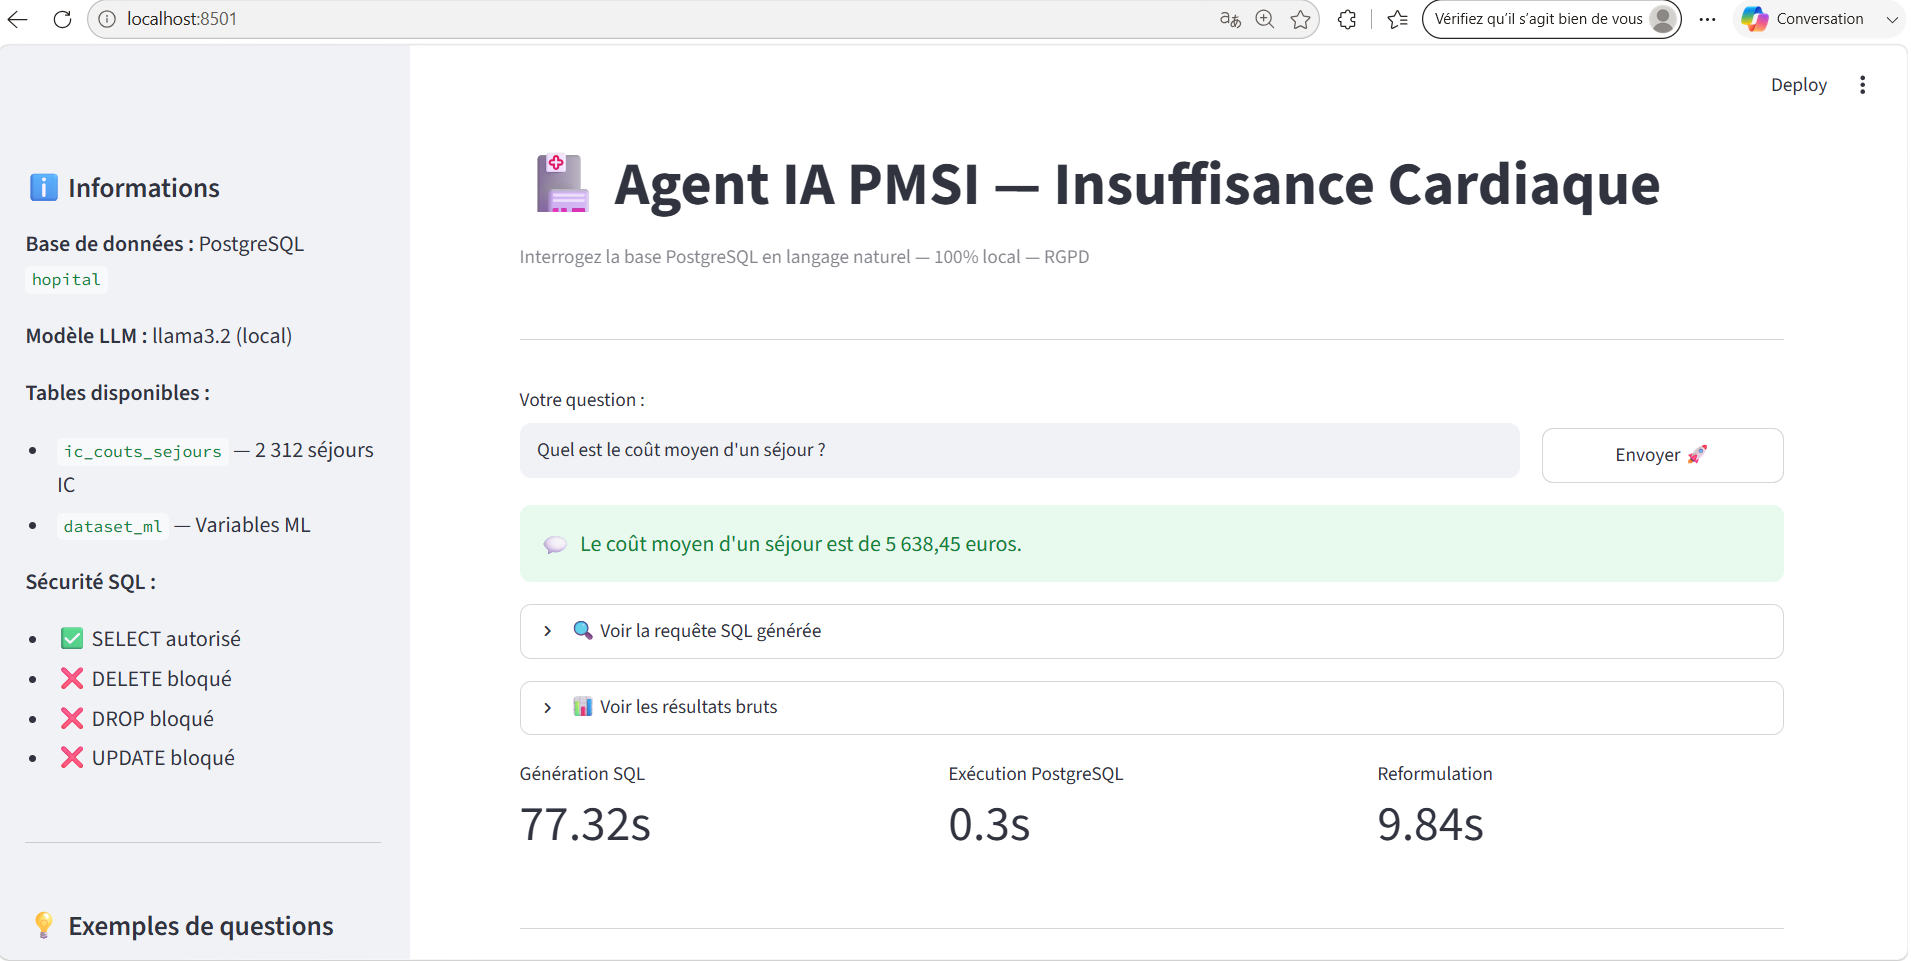
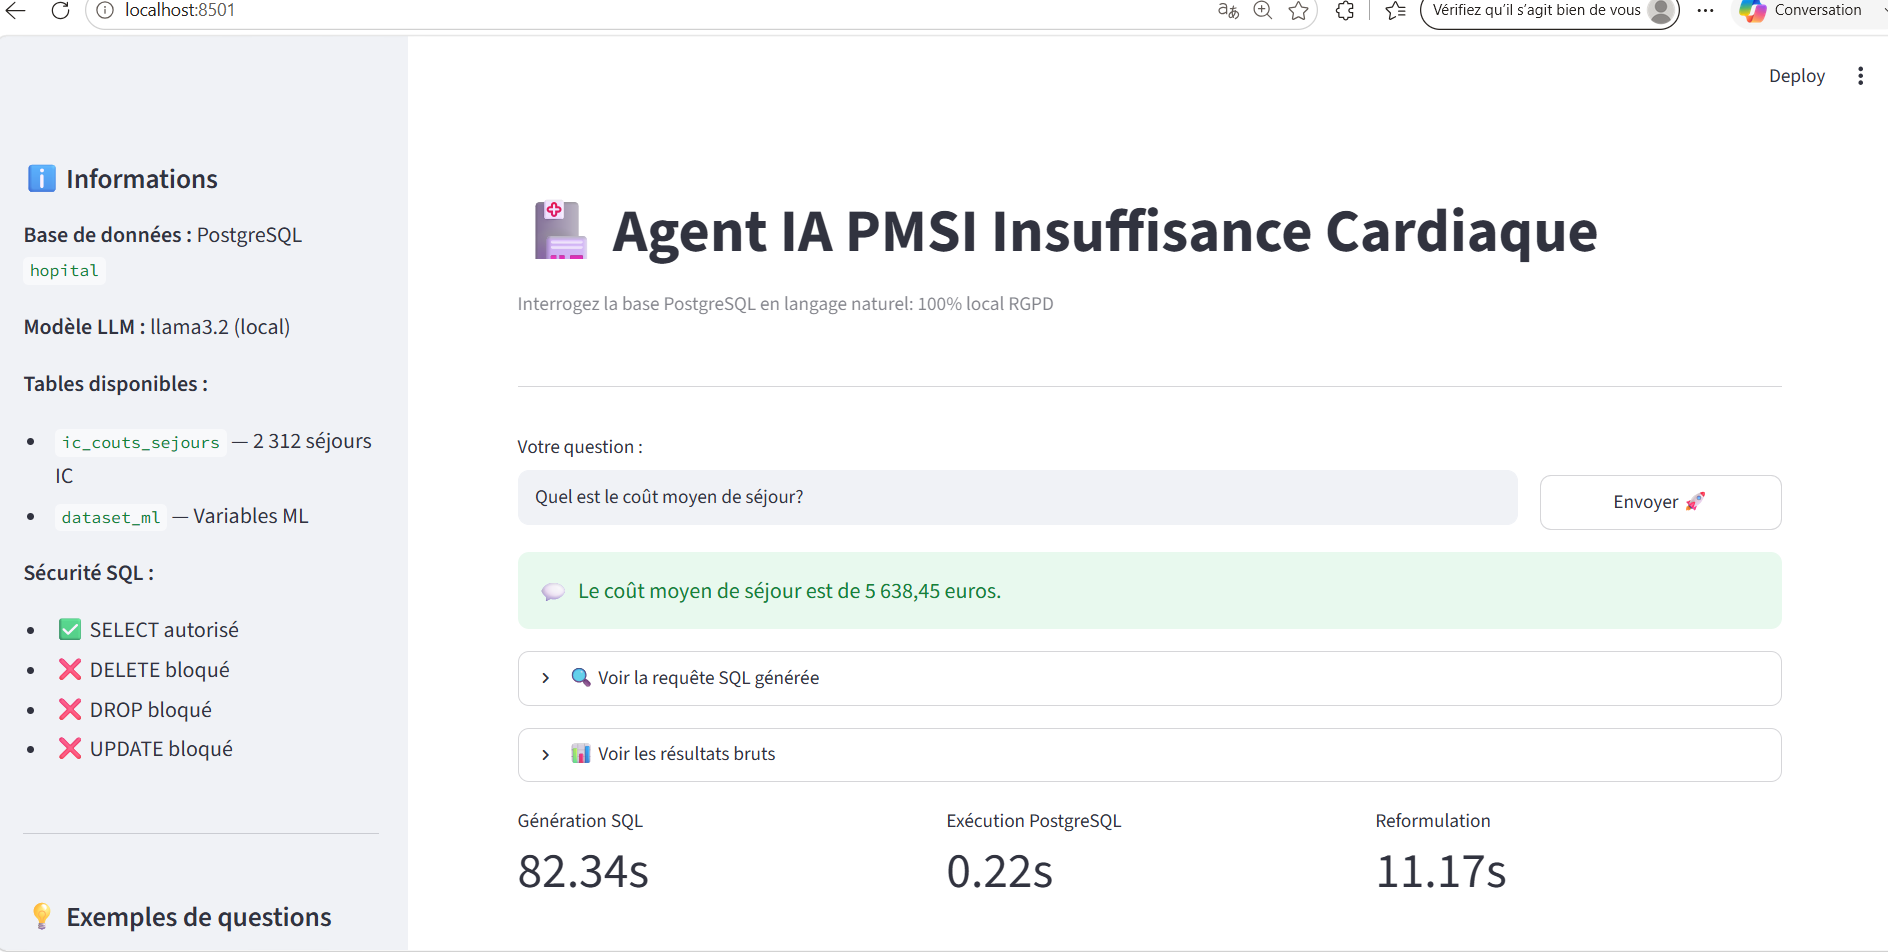
Mise à jour interface Streamlit + capture écran démo

diff --git a/agent_llm_pmsi.py b/agent_llm_pmsi.py
@@ -109,6 +109,26 @@ Ne genere PAS de requete SQL approximative dans ce cas - il vaut mieux
 signaler l'incapacite a repondre que de produire une requete qui risque
 d'echouer ou de renvoyer un resultat trompeur.
 
+IMPORTANT - Concepts absents du schema (different de HORS_PERIMETRE) :
+Certaines questions restent dans le domaine general (patients, sejours,
+insuffisance cardiaque) mais portent sur un CONCEPT PRECIS qui n'a AUCUNE
+colonne correspondante dans le schema ci-dessus. Ne genere JAMAIS une
+requete qui approxime ou remplace ce concept par une colonne proche mais
+differente.
+Exemples de concepts ABSENTS du schema :
+  - "mortalite", "deces", "taux de deces" -> n'existe pas (readmis_30j est
+    la READMISSION, pas la mortalite, ne pas confondre)
+  - "erreur de codage", "sejour mal code" -> n'existe pas
+  - "soins critiques" comme categorie -> n'existe pas comme valeur de ghm/ghs
+Si la question porte sur un concept absent (ou clairement similaire non
+couvert), reponds UNIQUEMENT avec le mot :
+CONCEPT_ABSENT
+
+RAPPEL FINAL AVANT DE REPONDRE :
+- Le FROM doit imperativement utiliser le nom complet pmsi_mco_analytics.nom_table
+- Ne remplace jamais un concept absent (mortalite) par une colonne existante
+  qui mesure autre chose (readmis_30j = readmission, pas mortalite)
+
 Question : {question}
 
 SQL :"""
@@ -185,6 +205,16 @@ def agent_pmsi(question):
             print(reponse)
             fin = time.time()
             enregistrer_trace(question, reponse, fin - debut, "SQL", False, "hors_perimetre")
+            return reponse
+
+        if "CONCEPT_ABSENT" in sql.upper():
+            reponse = ("Cette question porte sur un concept qui n'existe pas dans "
+                       "les donnees disponibles (par exemple la mortalite, alors que "
+                       "seule la readmission a 30 jours est mesuree). Aucune requete "
+                       "n'a ete executee pour eviter une reponse trompeuse.")
+            print(reponse)
+            fin = time.time()
+            enregistrer_trace(question, reponse, fin - debut, "SQL", False, "concept_absent")
             return reponse
 
         valide, message = verifier_requete(sql)

diff --git a/app_streamlit.py b/app_streamlit.py
@@ -23,8 +23,8 @@ st.set_page_config(
 )
 
 # ── Titre principal ──
-st.title("🏥 Agent IA PMSI — Insuffisance Cardiaque")
-st.caption("Interrogez la base PostgreSQL en langage naturel — 100% local — RGPD")
+st.title("🏥 Agent IA PMSI Insuffisance Cardiaque")
+st.caption("Interrogez la base PostgreSQL en langage naturel:  100% local RGPD")
 
 # ── Séparateur ──
 st.divider()
